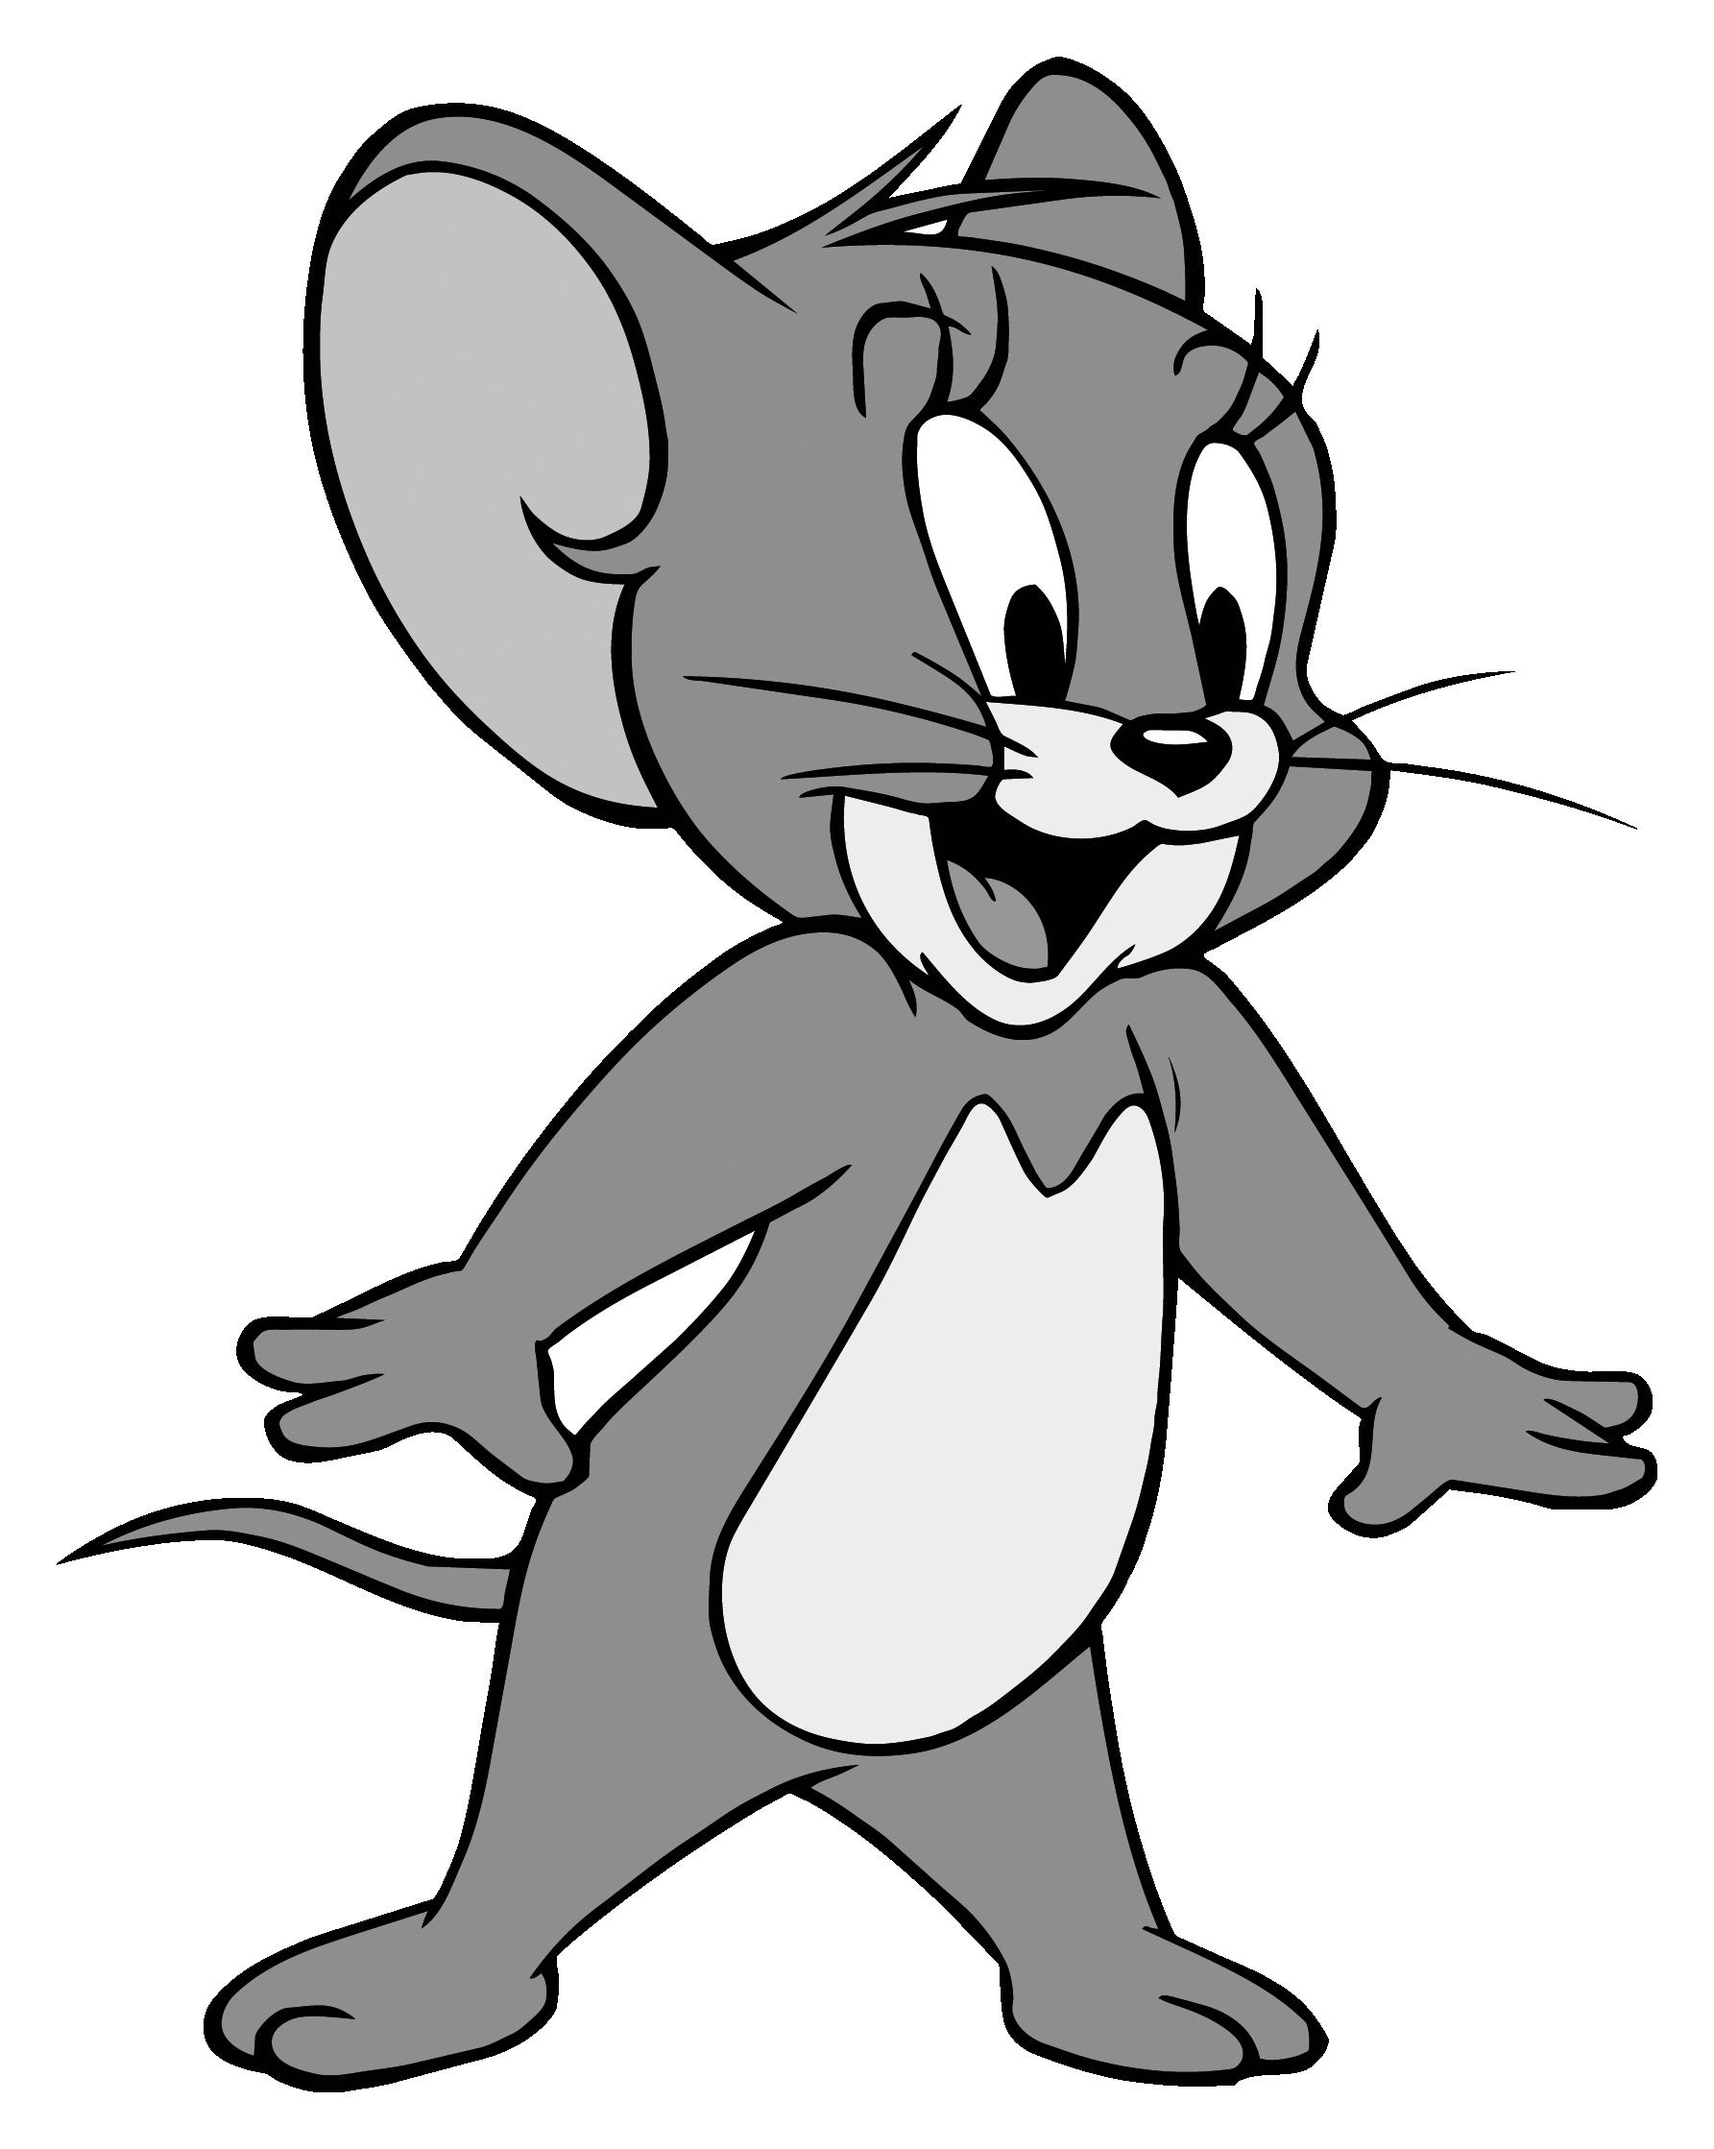
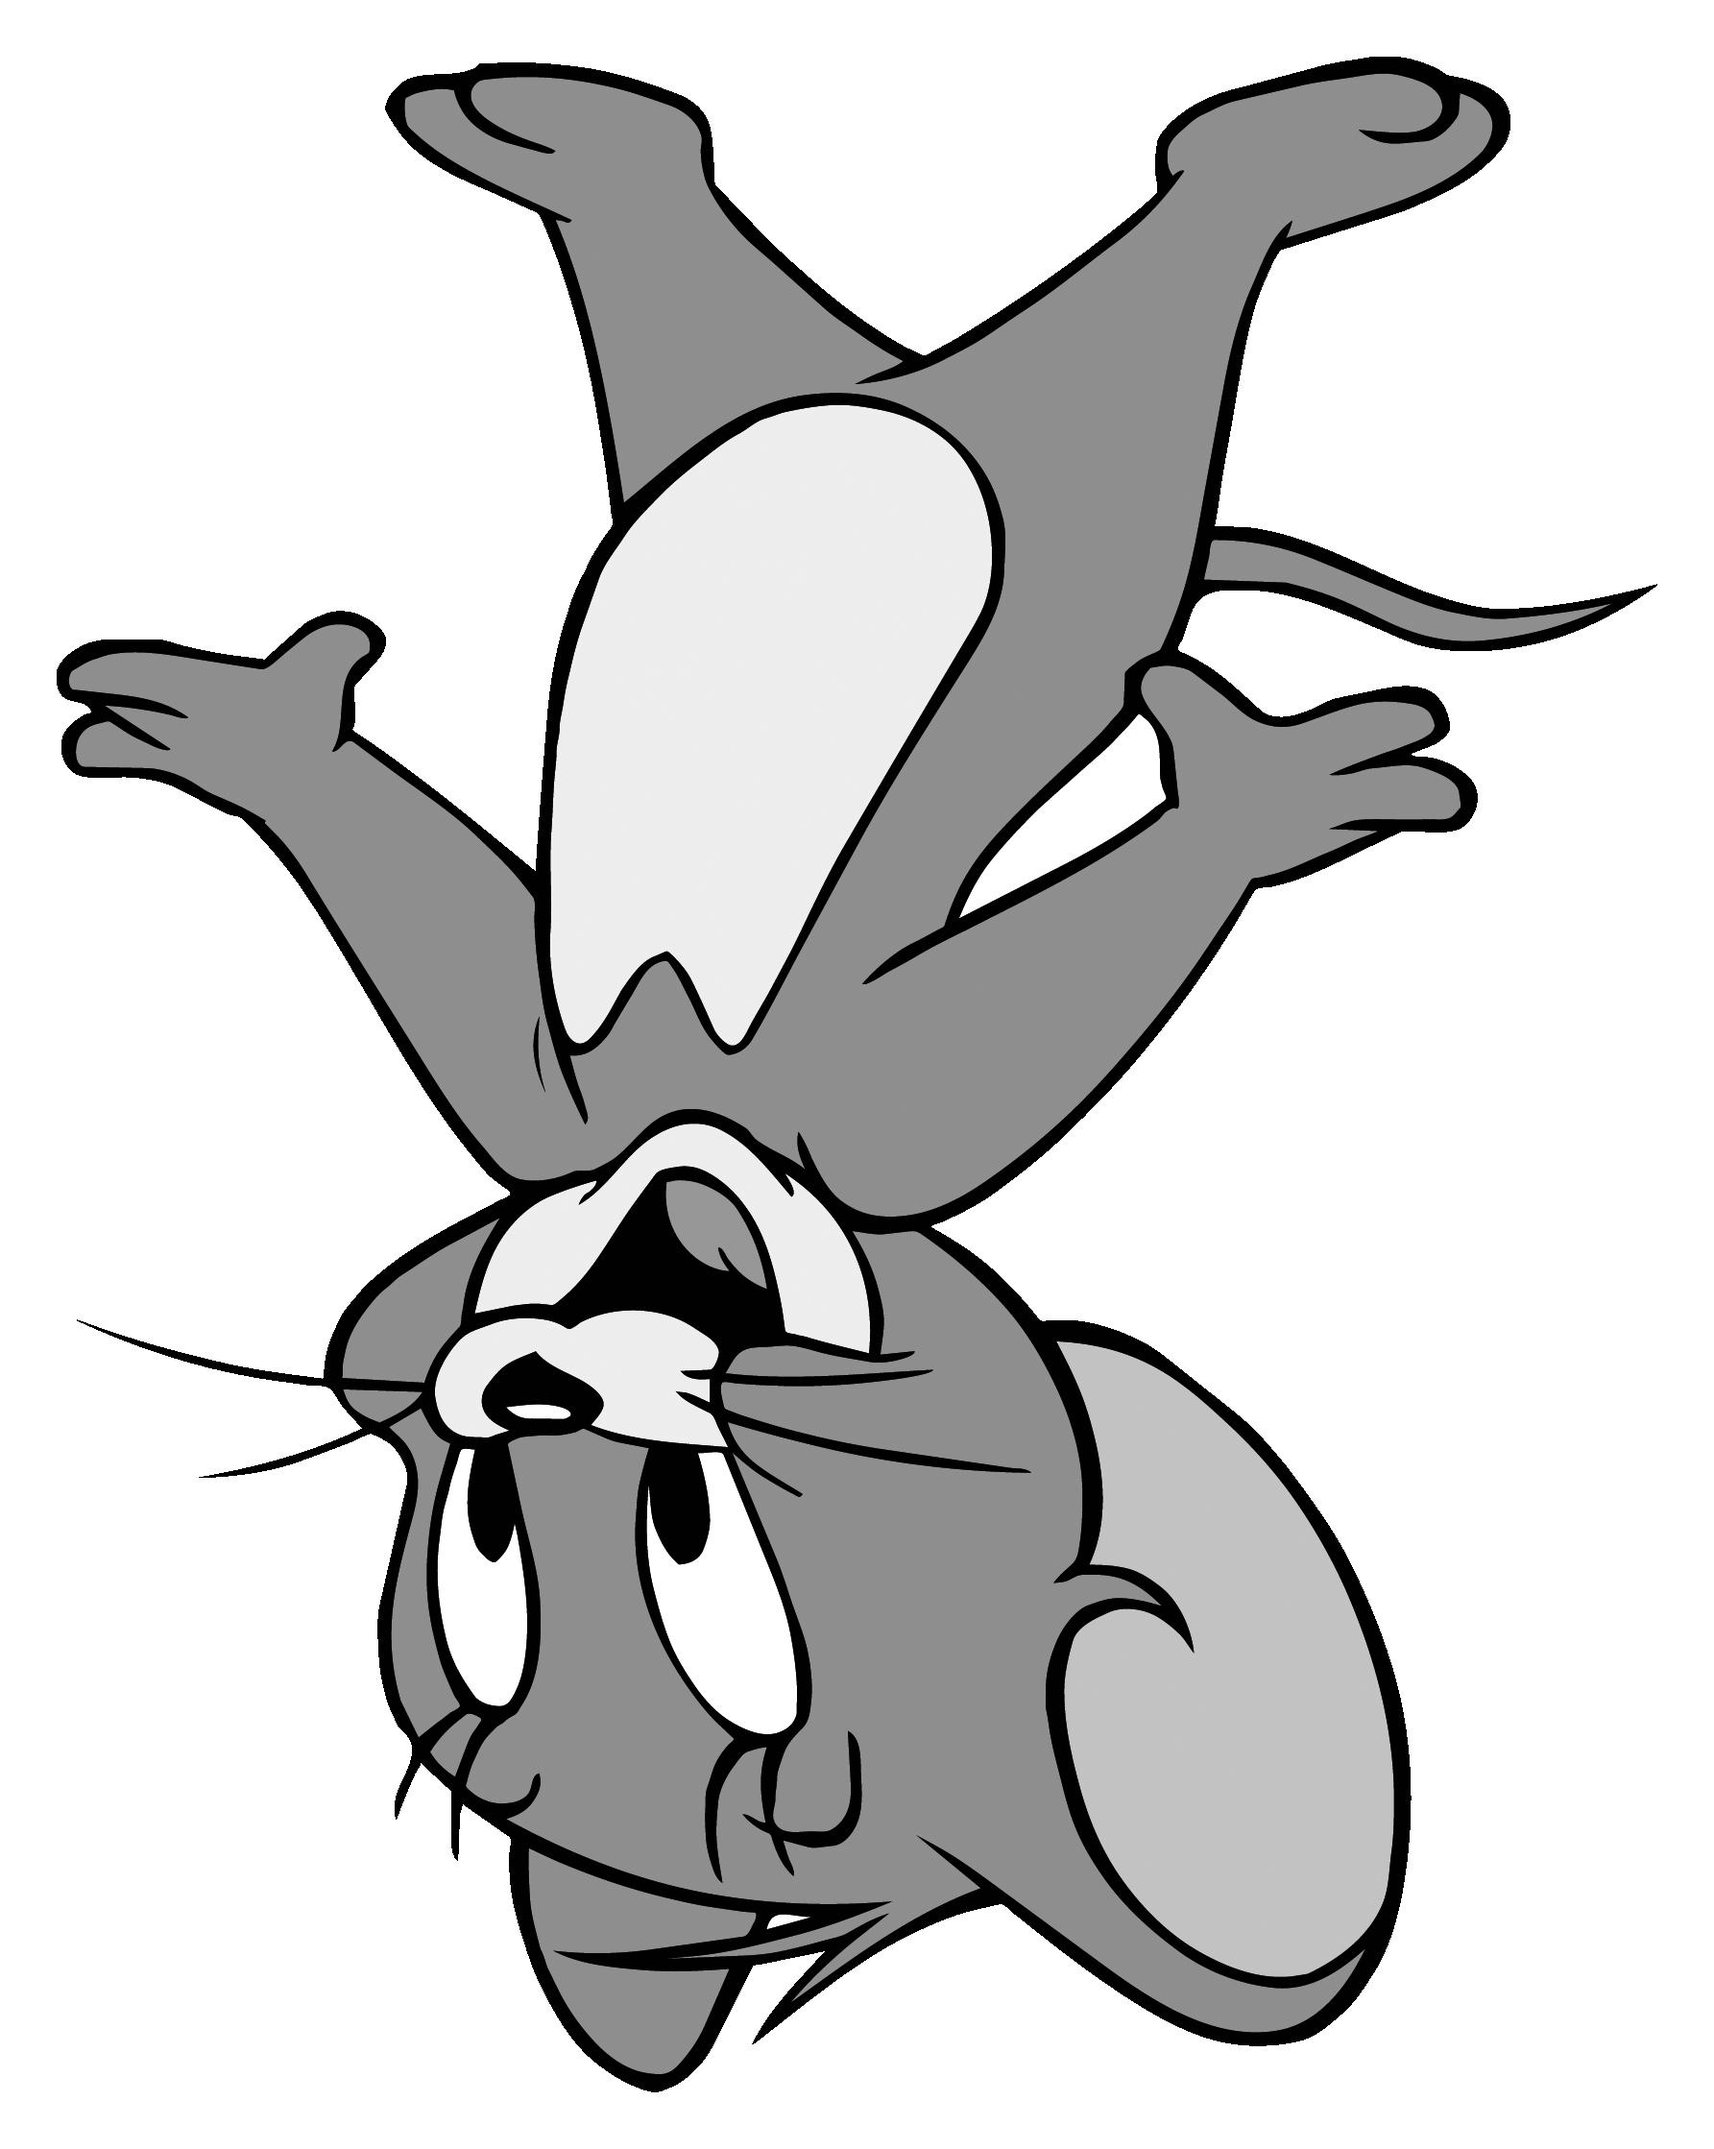
made changes to image size

diff --git a/image-processing/test.py b/image-processing/test.py
@@ -1,5 +1,7 @@
-from PIL import Image
+from PIL import Image, ImageFilter
 
 img = Image.open("image1.png")
 filtered_img = img.convert('L')
-filtered_img.save("grey.jpeg", 'jpeg')
+crooked = filtered_img.rotate(180)
+crooked.save("grey.jpeg", 'jpeg')
+crooked.show()
